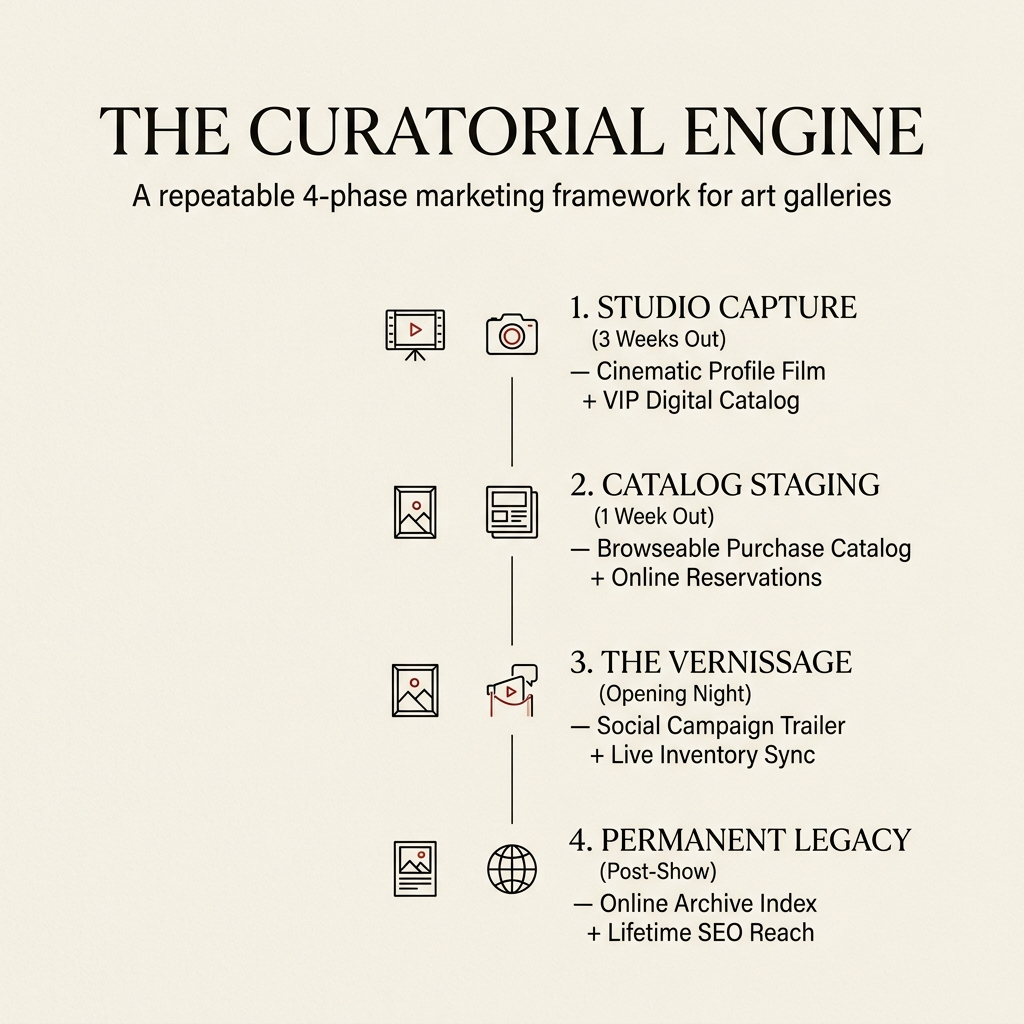
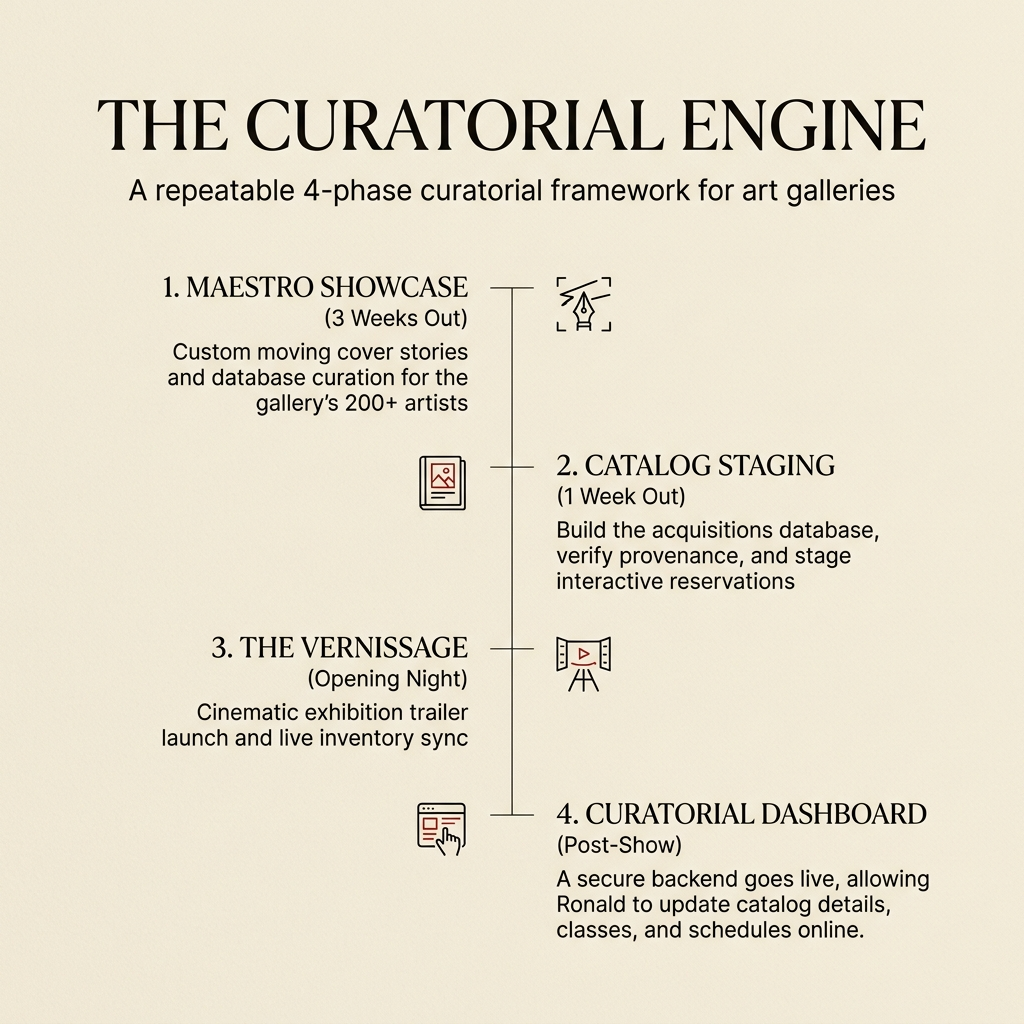
feat(artologist): update curatorial engine infographic image and phases (backend as Phase 4)

diff --git a/artologistmockup/infographic.html b/artologistmockup/infographic.html
@@ -955,8 +955,8 @@
               <svg viewBox="0 0 24 24"><path d="M23 7a2 2 0 0 0-2.45-1.45L16 7V5a2 2 0 0 0-2-2H2a2 2 0 0 0-2 2v14a2 2 0 0 0 2 2h12a2 2 0 0 0 2-2v-2l4.55 1.45A2 2 0 0 0 23 17V7zM14 19H2V5h12v14z"/></svg>
             </div>
             <span class="when">Phase 1 · 3 Weeks Out</span>
-            <h4>Studio Capture</h4>
-            <p>Next Frame shoots the cinematic Artist Archive Film in the studio, capturing the soul, turpentine, and philosophy. We assemble the VIP Digital Catalog with provenance details.</p>
+            <h4>Maestro Showcase</h4>
+            <p>Next Frame curates the Maestro Showcase featuring the interactive moving cover stories, video interviews, and database records for the featured artists.</p>
           </div>
           
           <div class="process-step">
@@ -967,7 +967,7 @@
             </div>
             <span class="when">Phase 2 · 1 Week Out</span>
             <h4>Catalog Staging</h4>
-            <p>We launch the browseable, interactive purchase catalog on the site. Collectors can preview the exhibition and reserve or acquire pieces securely online ahead of opening night.</p>
+            <p>We compile and verify the provenance details of the acquisitions catalog, setting up the interactive reservations and secure acquisition paths.</p>
           </div>
           
           <div class="process-step">
@@ -988,8 +988,8 @@
               <svg viewBox="0 0 24 24"><path d="M4 19.5A2.5 2.5 0 0 1 6.5 17H20V3H6.5a2.5 2.5 0 0 0-2.5 2.5v14zM6 5h12v10H6.5A1.5 1.5 0 0 0 5 16.5V6a1 1 0 0 1 1-1z"/></svg>
             </div>
             <span class="when">Phase 4 · Post-Show</span>
-            <h4>Permanent Legacy</h4>
-            <p>The Maestro Showcase and exhibition notes reside permanently in your online archive, continuing to attract collectors and build search authority for years to come.</p>
+            <h4>Curatorial Dashboard</h4>
+            <p>The secure self-service backend goes live. Ronald can now easily upload new artworks, edit workshop classes, and manage schedules online directly.</p>
           </div>
           
         </div>